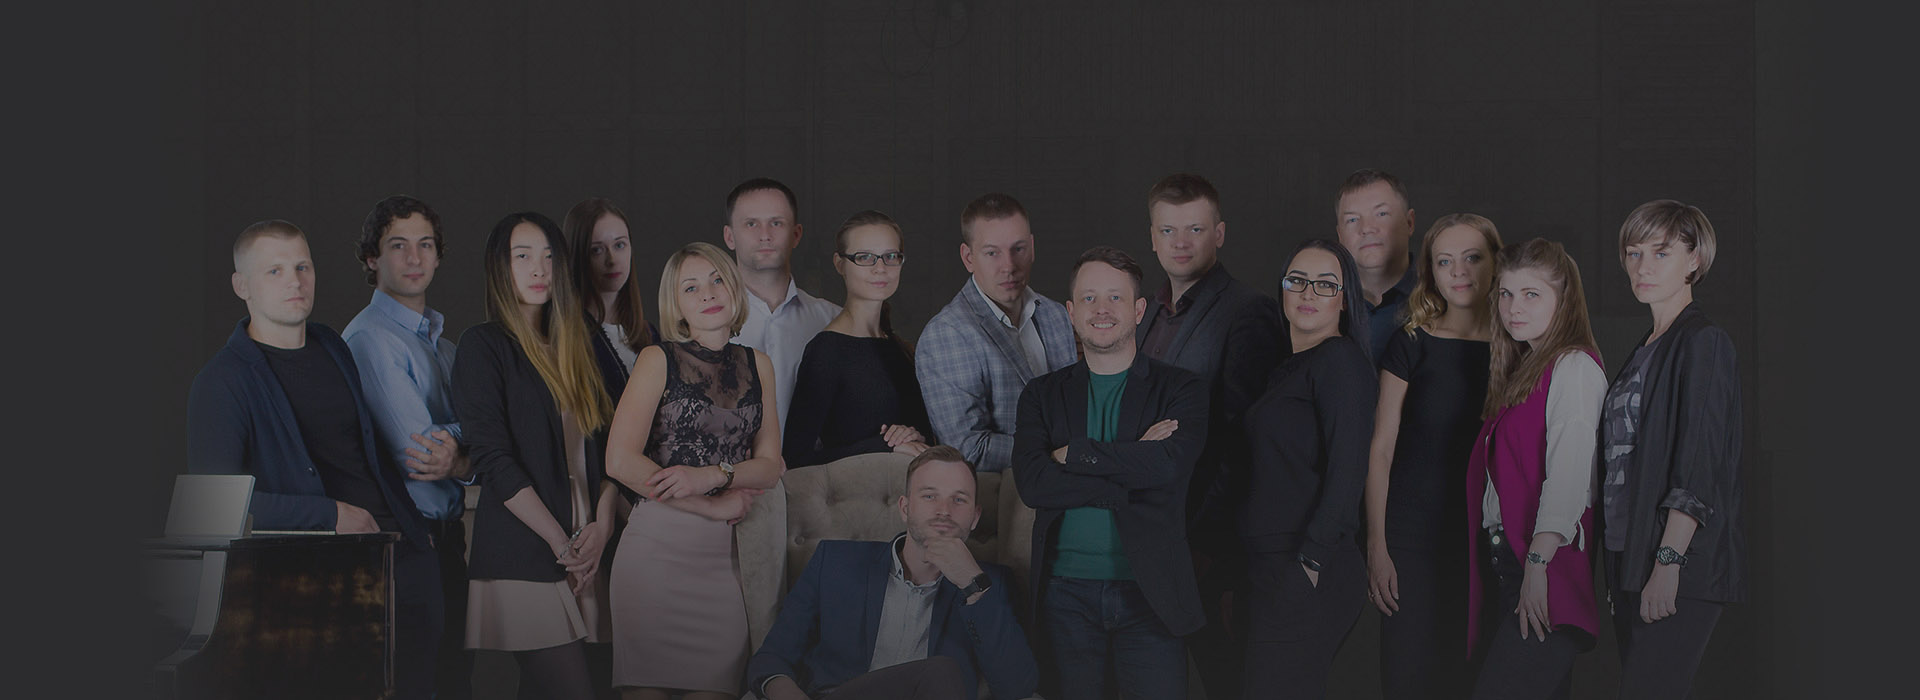
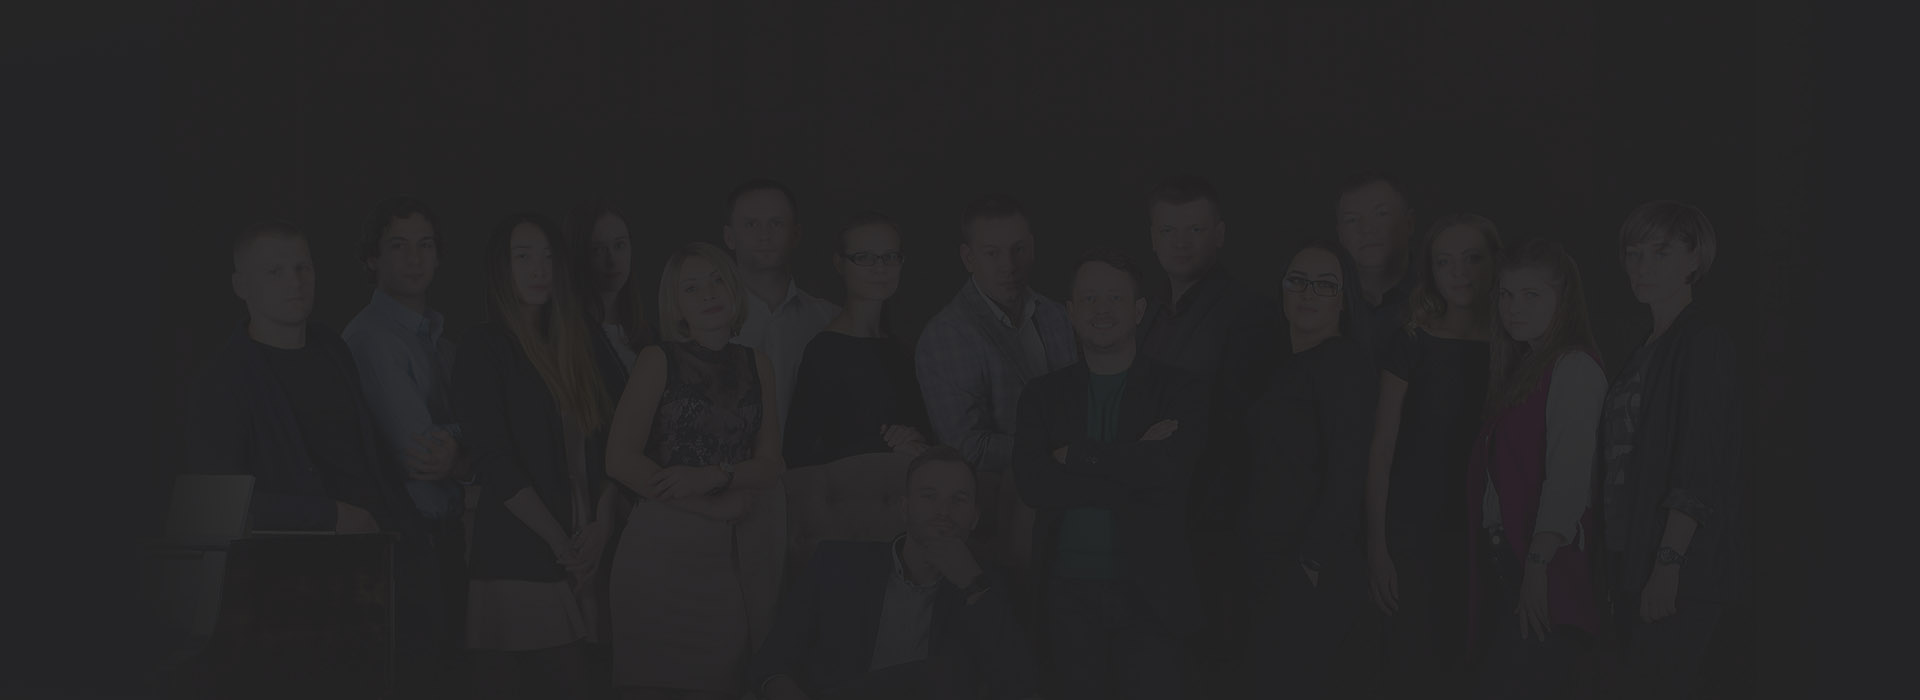
finish slider

Changed region(s): [[0.0938, 0.27, 0.6562, 0.99], [0.6562, 0.24, 0.9062, 0.9], [0.375, 0.96, 0.4375, 1.0]]

diff --git a/index.html b/index.html
@@ -795,11 +795,8 @@
 				деятельность мы успешно ведем с 2009. Динамично развиваясь на протяжении стольких лет, наша компания
 				зарекомендовала себя, как профессиональный и компетентный коллектив специалистов. Компания "СовИнвест" откроет для
 				вас новые возможности приобретения недвижимости в кредит и под залог с полным юридическим сопровождением сделок. Мы
-				обладаем ежедневно обновляющейся базой данных объектов не только в Санкт-Петербурге, но и на территории всей
-				России, что позволяет нашей компании поддерживать лидирующие позиции на современном рынке недвижимости. Многолетний
-				опыт успешной работы, стабильность и высокое качество услуг, профессионализм сотрудников, содействие клиентам в
-				решении вопросов различного уровня, сопутствующих сделкам, делают нас надежным партнером самых крупных
-				отечественных и зарубежных компаний, а также — лучшим посредником в сделках с недвижимостью для частных лиц.
+				обладаем ежедневно обновляющейся базой данных объектов на территории всей
+				России, что позволяет нашей компании поддерживать лидирующие позиции на современном рынке недвижимости.
 			</p>
 	
 		</div>

diff --git a/css/style.css b/css/style.css
@@ -34,6 +34,7 @@ font-style: normal;
 	font-family: "SourceSansPro-Regular";
 	font-size: 20px;
 	color: #fff;
+	opacity: .8;
 	text-align: center;
 }
 .about-slider{
@@ -46,14 +47,13 @@ font-style: normal;
 	font-family: "SourceSansPro-Light";
 }
 .team-cap{
-	font-family: "SourceSansPro-Light";
-	font-size: 20px;
+	font-family: "SourceSansPro-SemiBold";
+	font-size: 22px;
 	padding: 0;
 	margin-top: 5px;
-	color: #fff;
+	color: #3155aa;
 	text-align: center;
-	opacity: .8;
-}
+	}
 .vertical{
 	margin: auto;
 	width: 100%;
@@ -1498,8 +1498,7 @@ section.about-us {
 	min-width: 1200px;
 	margin: 0 auto;
 	overflow: hidden;
-	background-color: #414141;
-	/* background: url("../images/aboutus-bg.jpg") no-repeat; */
+	background: url("../images/aboutus-bg.jpg") no-repeat;
 	background-size: cover;
 	background-position: 50%;
 }

diff --git a/css/slick.css b/css/slick.css
@@ -78,13 +78,15 @@
 {
     display: none;
 		float: left;
-		opacity: 0.5;
+		filter: grayscale(100%);
+		opacity: 0.4;
     height: 80%;
 		min-height: 1px;
-		transition: 300ms ease-in-out;
+		transition: 500ms ease-in-out;
 }
 .slick-current{
-	opacity: 1!important;
+	filter: grayscale(0%)!important;
+	opacity: 1;
 }
 [dir='rtl'] .slick-slide
 {
